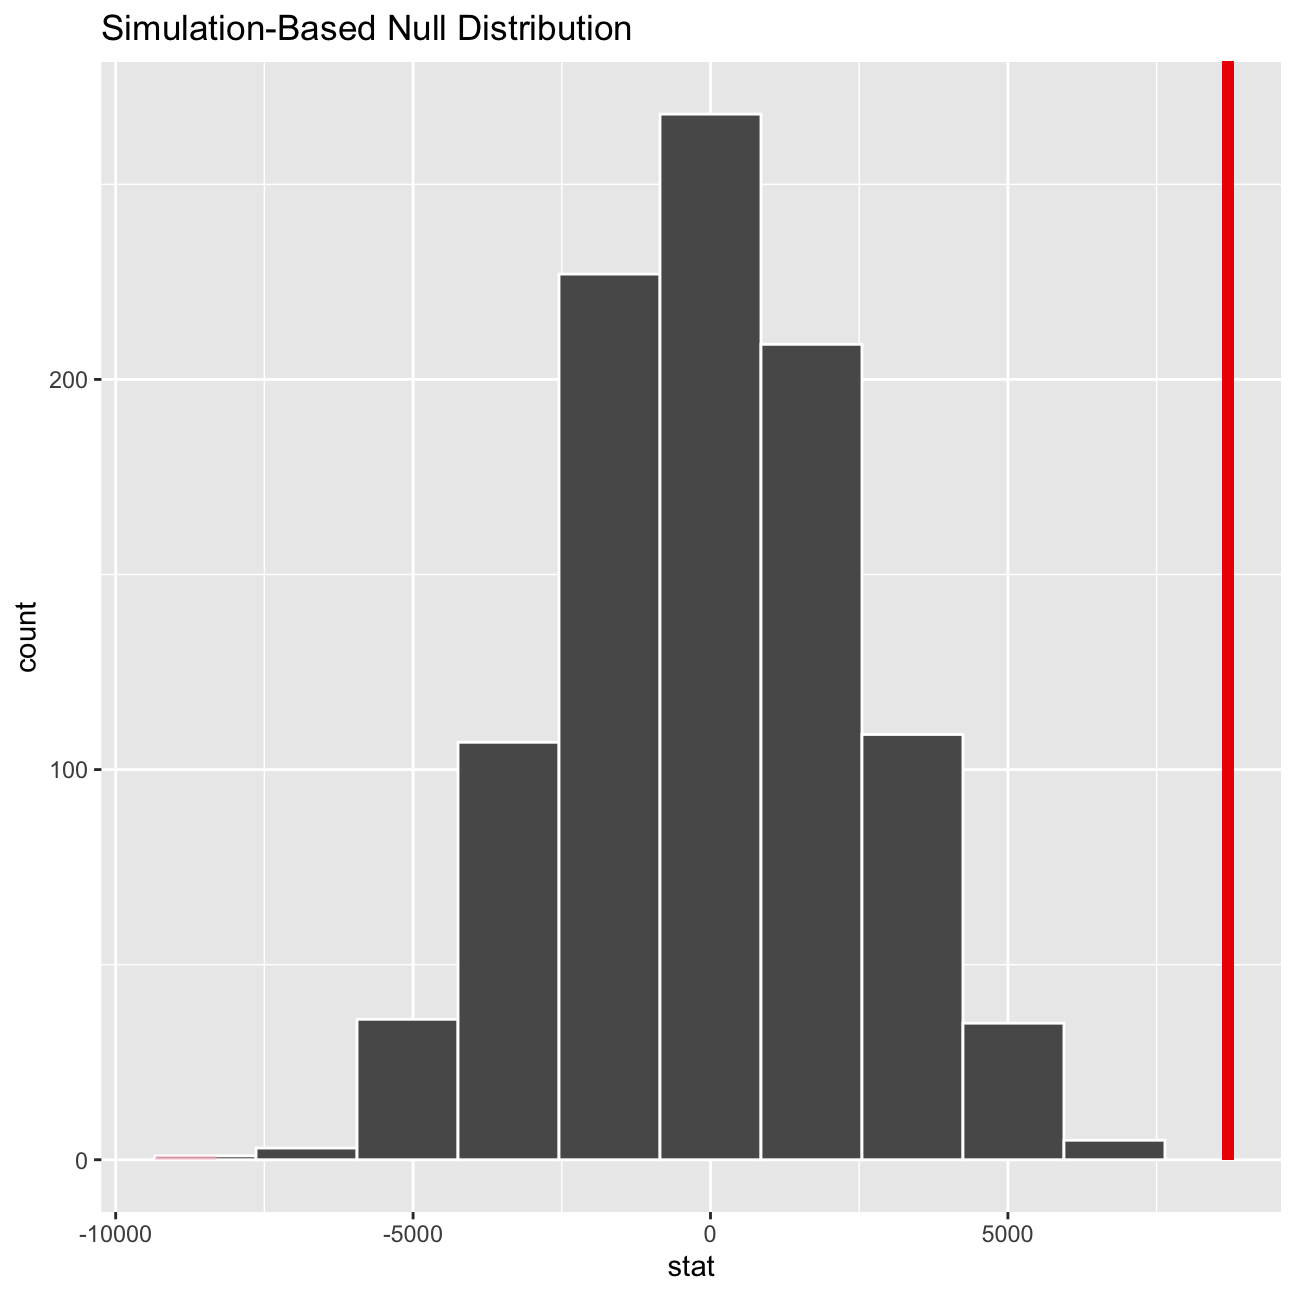
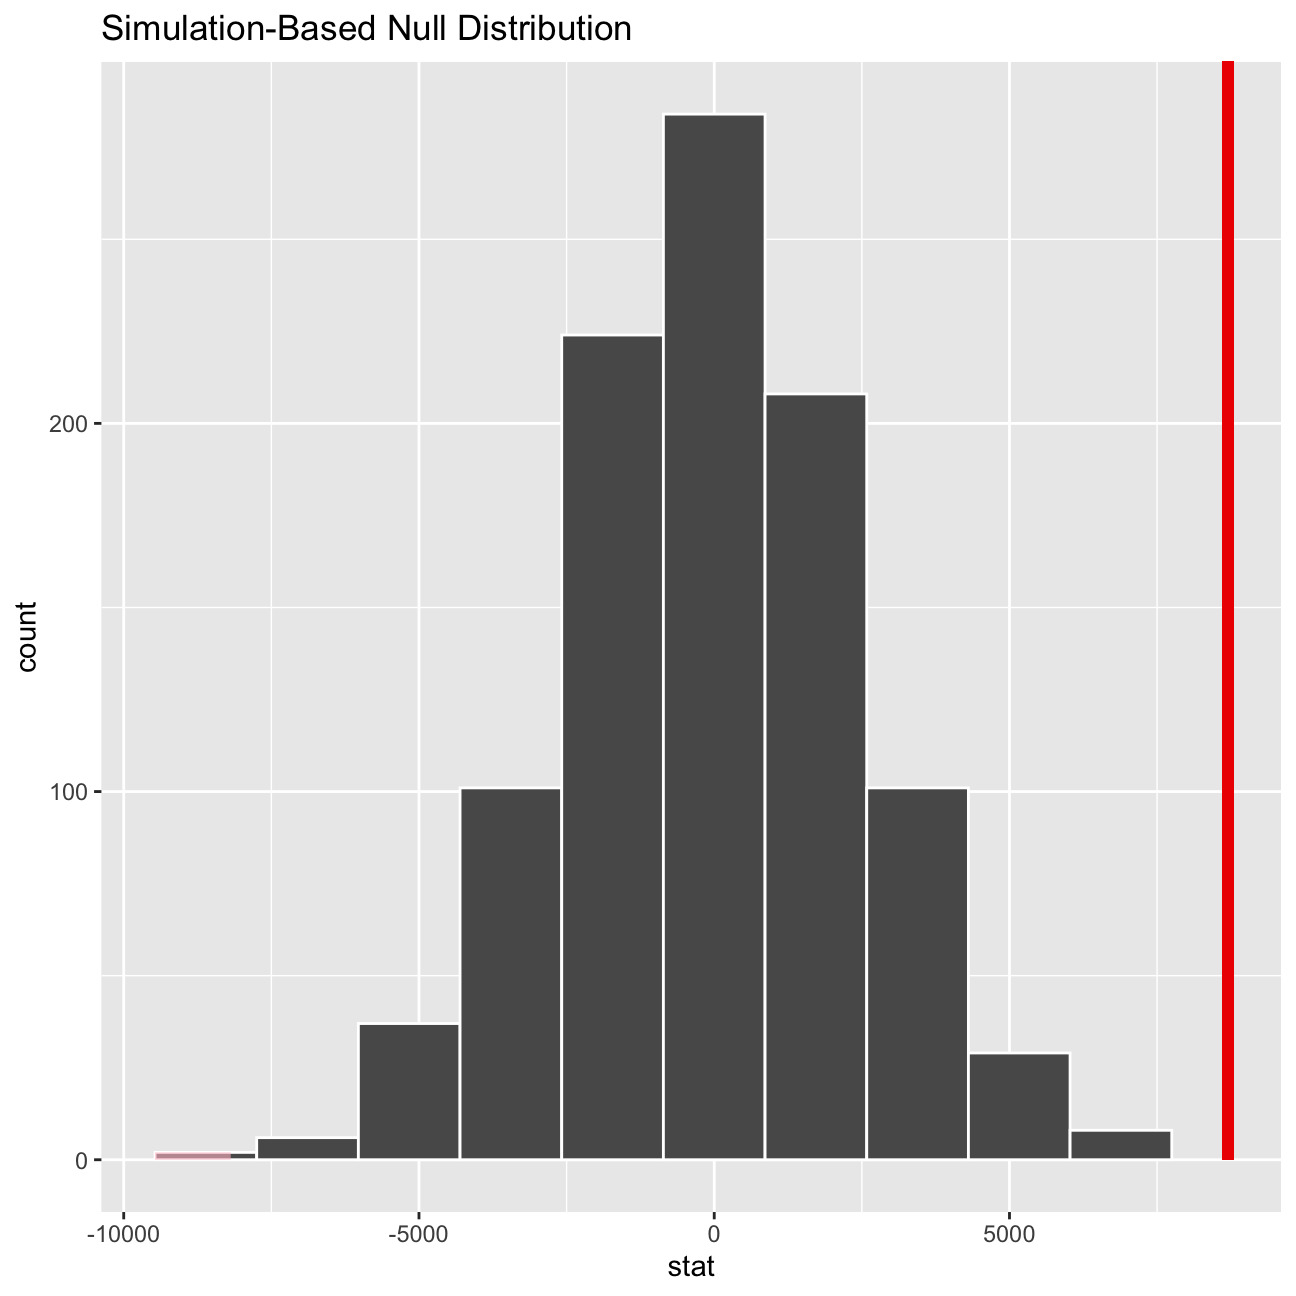
df

diff --git a/public/projects/project4/index.html b/public/projects/project4/index.html
@@ -235,18 +235,18 @@ t_test_tidy</code></pre>
 
 null_distribution</code></pre>
 <pre><code>## # A tibble: 1,000 x 2
-##    replicate    stat
-##        &lt;int&gt;   &lt;dbl&gt;
-##  1         1 -4593. 
-##  2         2 -4436. 
-##  3         3 -3891. 
-##  4         4   167. 
-##  5         5  -701. 
-##  6         6  1415. 
-##  7         7 -2775. 
-##  8         8    10.2
-##  9         9  1729. 
-## 10        10 -1353. 
+##    replicate   stat
+##        &lt;int&gt;  &lt;dbl&gt;
+##  1         1 -3899.
+##  2         2  -304.
+##  3         3  2076.
+##  4         4 -6800.
+##  5         5 -3833.
+##  6         6   572.
+##  7         7 -5833.
+##  8         8  -287.
+##  9         9  -304.
+## 10        10   374.
 ## # … with 990 more rows</code></pre>
 <pre class="r"><code># visualize the p-value 
 
@@ -411,18 +411,18 @@ t_test_exp_tidy</code></pre>
 
 null_distribution</code></pre>
 <pre><code>## # A tibble: 1,000 x 2
-##    replicate    stat
-##        &lt;int&gt;   &lt;dbl&gt;
-##  1         1 -4593. 
-##  2         2 -4436. 
-##  3         3 -3891. 
-##  4         4   167. 
-##  5         5  -701. 
-##  6         6  1415. 
-##  7         7 -2775. 
-##  8         8    10.2
-##  9         9  1729. 
-## 10        10 -1353. 
+##    replicate   stat
+##        &lt;int&gt;  &lt;dbl&gt;
+##  1         1 -3899.
+##  2         2  -304.
+##  3         3  2076.
+##  4         4 -6800.
+##  5         5 -3833.
+##  6         6   572.
+##  7         7 -5833.
+##  8         8  -287.
+##  9         9  -304.
+## 10        10   374.
 ## # … with 990 more rows</code></pre>
 <pre class="r"><code># Visualize p value 
 
@@ -483,15 +483,6 @@ ggplot(omega, aes(x = experience, y=salary,color=gender))+
   
   NULL</code></pre>
 <p><img src="/projects/project4_files/figure-html/salary_exp_scatter-1.png" width="648" style="display: block; margin: auto;" /></p>
-</div>
-<div id="check-correlations-between-the-data" class="section level2">
-<h2>Check correlations between the data</h2>
-<p>You can use <code>GGally:ggpairs()</code> to create a scatterplot and correlation matrix. Essentially, we change the order our variables will appear in and have the dependent variable (Y), salary, as last in our list. We then pipe the dataframe to <code>ggpairs()</code> with <code>aes</code> arguments to colour by <code>gender</code> and make ths plots somewhat transparent (<code>alpha  = 0.3</code>).</p>
-<pre class="r"><code>omega %&gt;% 
-  select(gender, experience, salary) %&gt;% #order variables they will appear in ggpairs()
-  ggpairs(aes(colour=gender, alpha = 0.3))+
-  theme_bw()</code></pre>
-<p><img src="/projects/project4_files/figure-html/ggpairs-1.png" width="648" style="display: block; margin: auto;" /></p>
 </div>
 </div>
 <div id="uk-gender-pay-gap-2017" class="section level1">
@@ -939,8 +930,8 @@ UK_pay_gap_hourly</code></pre>
 ## 1            20.1</code></pre>
 <p>On average women are paid 15% less than men per hour and receive a 20% smaller bonus.</p>
 </div>
-<div id="which-company-sizes-have-the-largest-pay-gap" class="section level2">
-<h2>Which company sizes have the largest pay gap?</h2>
+<div id="does-the-pay-gap-differ-by-company-size" class="section level2">
+<h2>Does the pay gap differ by company size?</h2>
 <pre class="r"><code>#order the factor
 gender_pay_gap$EmployerSize &lt;- factor(x = gender_pay_gap$EmployerSize, levels = c(&quot;Less than 250&quot;,&quot;250 to 499&quot;, &quot;500 to 999&quot;, &quot;1000 to 4999&quot;, &quot;5000 to 19,999&quot;, &quot;20,000 or more&quot;, &quot;Not Provided&quot;))
 

diff --git a/content/projects/project5.html b/content/projects/project5.html
@@ -7,11 +7,11 @@ output: html_document
 
 <div id="short-summary" class="section level2">
 <h2>Short Summary</h2>
-<ul>
-<li>Currently reading for the Masters in Financial Analysis at London Business School</li>
-<li>Previously worked in M&amp;A and Private Equity</li>
-<li>Recently started working with R</li>
-</ul>
+<p>🎓 Currently reading for the Masters in Financial Analysis at London Business School</p>
+<p>💼 Previously worked in M&amp;A and Private Equity</p>
+<p>💻 Recently started exploring the world of R</p>
+<p>🎷 Music lover who can’t wait to go to concerts again</p>
+<p>🎿 Passionate once a year skier</p>
 </div>
 <div id="education" class="section level2">
 <h2>Education</h2>

diff --git a/public/projects/project5/index.html b/public/projects/project5/index.html
@@ -83,11 +83,11 @@
 
 <div id="short-summary" class="section level2">
 <h2>Short Summary</h2>
-<ul>
-<li>Currently reading for the Masters in Financial Analysis at London Business School</li>
-<li>Previously worked in M&amp;A and Private Equity</li>
-<li>Recently started working with R</li>
-</ul>
+<p>🎓 Currently reading for the Masters in Financial Analysis at London Business School</p>
+<p>💼 Previously worked in M&amp;A and Private Equity</p>
+<p>💻 Recently started exploring the world of R</p>
+<p>🎷 Music lover who can’t wait to go to concerts again</p>
+<p>🎿 Passionate once a year skier</p>
 </div>
 <div id="education" class="section level2">
 <h2>Education</h2>

diff --git a/content/projects/project2.html b/content/projects/project2.html
@@ -16,11 +16,11 @@ output:
 
 <div id="short-summary" class="section level2">
 <h2>Short Summary</h2>
-<ul>
-<li>Currently reading for the Masters in Financial Analysis at London Business School</li>
-<li>Previously worked in M&amp;A and Private Equity</li>
-<li>Recently started working with R</li>
-</ul>
+<p>🎓 Currently reading for the Masters in Financial Analysis at London Business School
+💼 Previously worked in M&amp;A and Private Equity
+💻 Recently started exploring the world of R
+🎷 Music lover who can’t wait to go to concerts again
+🎿 Passionate once a year skier</p>
 </div>
 <div id="education" class="section level2">
 <h2>Education</h2>

diff --git a/public/projects/project2/index.html b/public/projects/project2/index.html
@@ -83,11 +83,11 @@
 
 <div id="short-summary" class="section level2">
 <h2>Short Summary</h2>
-<ul>
-<li>Currently reading for the Masters in Financial Analysis at London Business School</li>
-<li>Previously worked in M&amp;A and Private Equity</li>
-<li>Recently started working with R</li>
-</ul>
+<p>🎓 Currently reading for the Masters in Financial Analysis at London Business School
+💼 Previously worked in M&amp;A and Private Equity
+💻 Recently started exploring the world of R
+🎷 Music lover who can’t wait to go to concerts again
+🎿 Passionate once a year skier</p>
 </div>
 <div id="education" class="section level2">
 <h2>Education</h2>

diff --git a/public/index.html b/public/index.html
@@ -95,7 +95,7 @@
                 <img src="img/projects/avatar.jpg" alt="" />
             </span>
             <header class="major">
-                <h3><a href="/projects/project5" class="link">About me🤗</a></h3>
+                <h3><a href="/projects/project5" class="link">About me ✏</a></h3>
                 <p>See my CV here</p>
             </header>
         </article>
